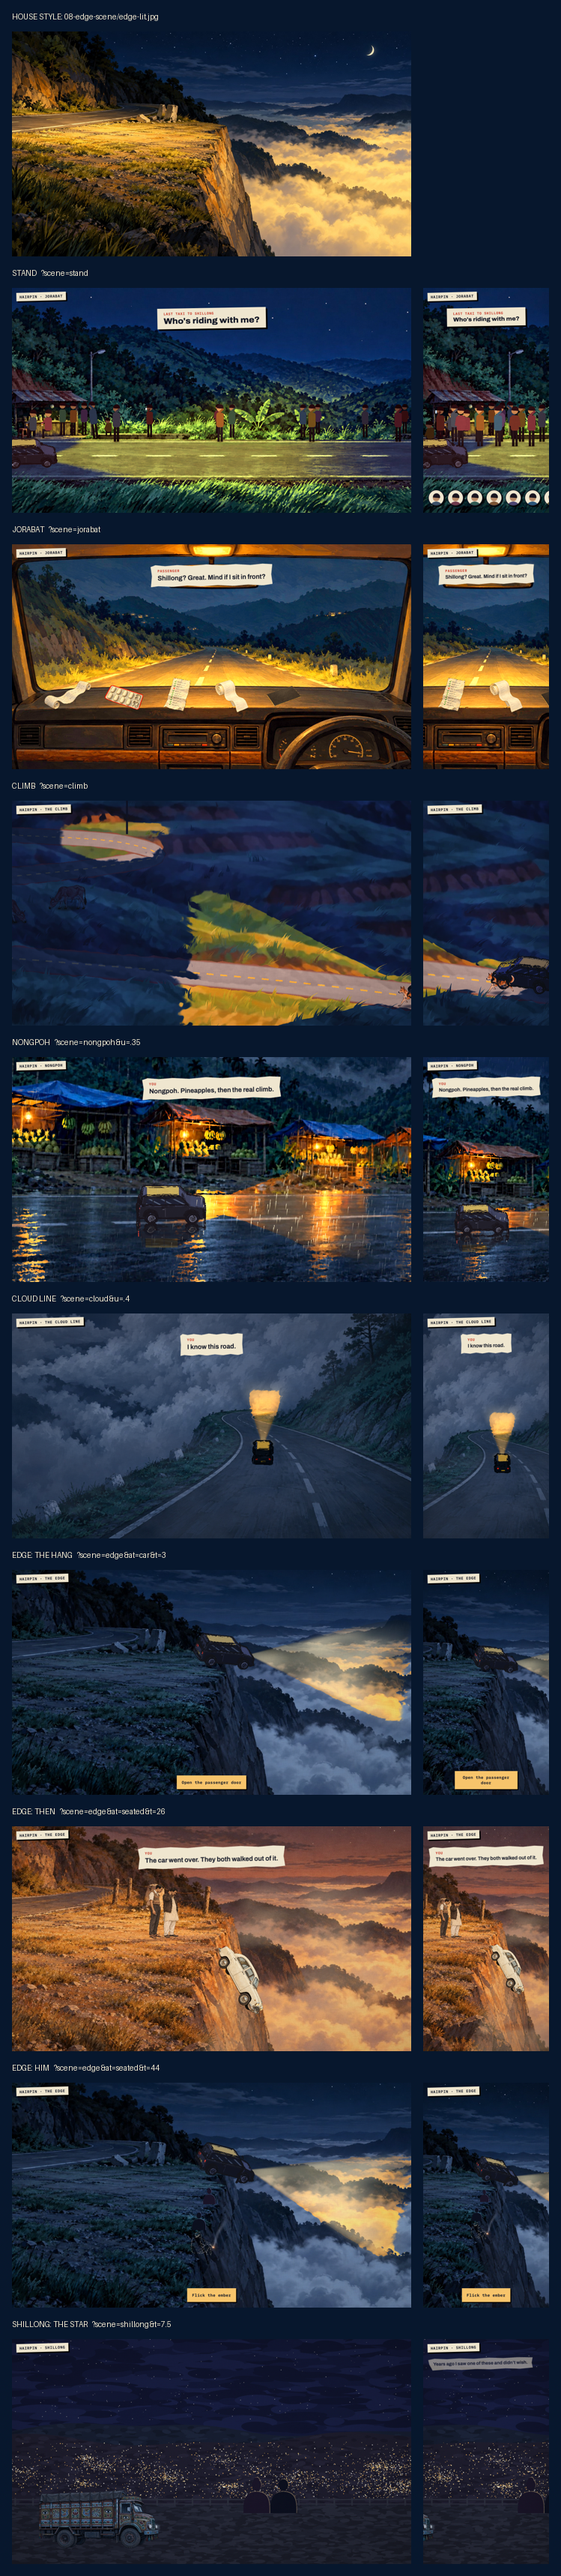
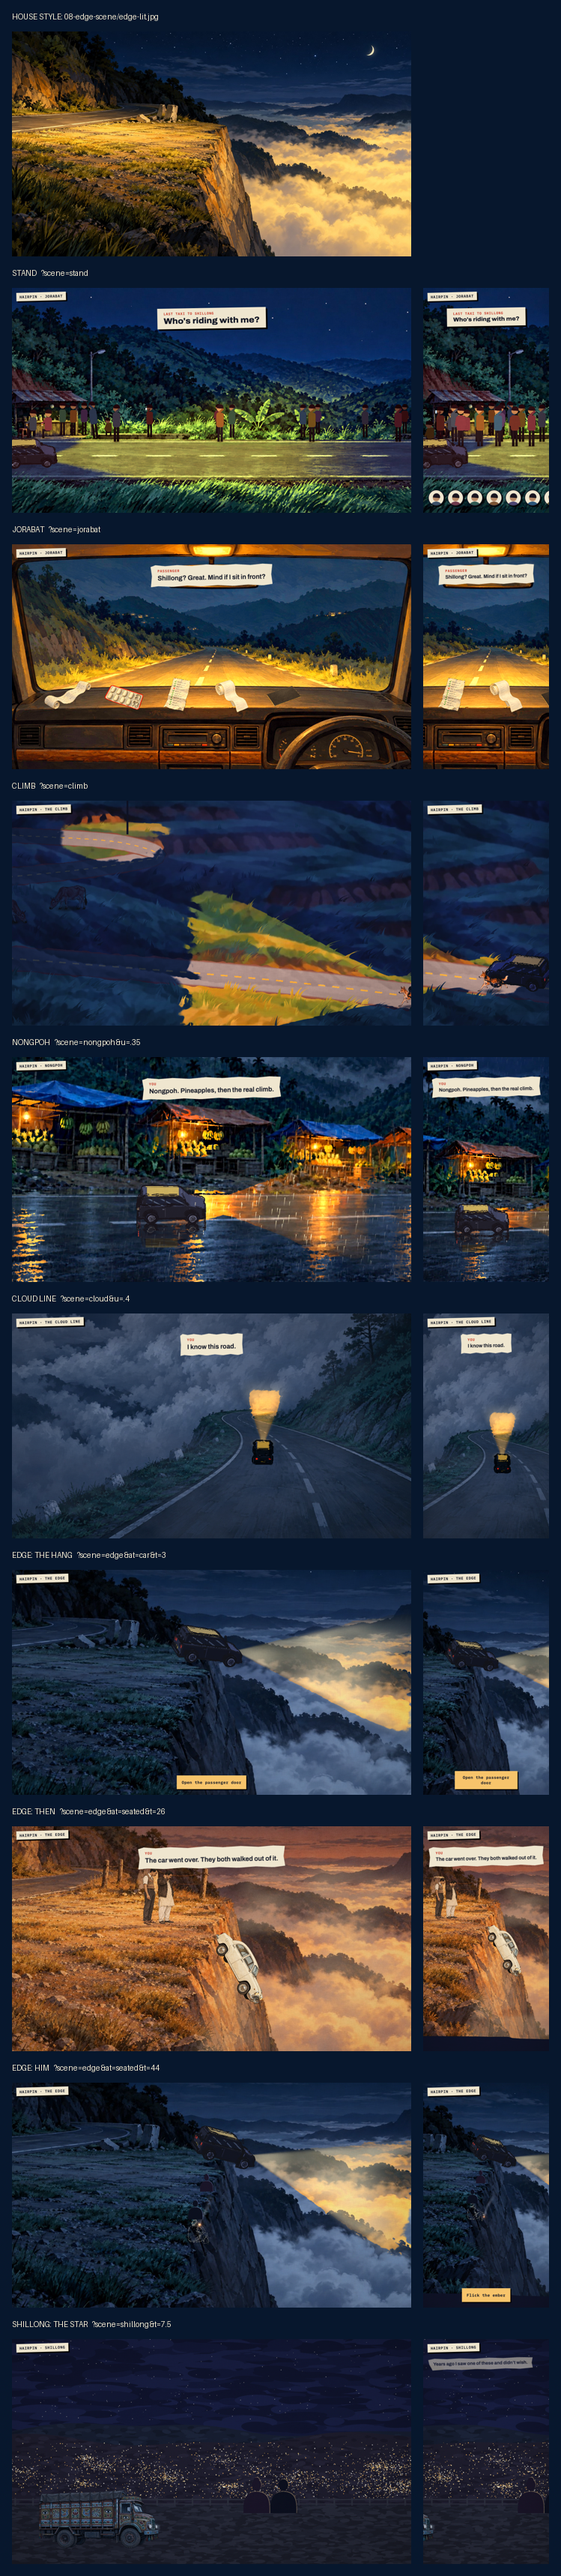
Depth, step 3: every painting gets a depth map; the edge is 2.5D
- tools/make_depth.py: Depth Anything V2 small (ONNX) -> <scene>/depth.png,
  smoothed; falls back to hand layers if the model can't be had
- shared/kit.js Stage: the painting as a 256x128 mesh pushed along its own
  sight lines by depth (pixel-identical at rest, parallax when the camera
  moves); place() grounds things by the depth at their feet
- The edge: perspective camera; leans in toward the drop as the taxi tips,
  pulls back to show the cloud below when the doors open, holds for the
  story, tilts down after the fall

diff --git a/08-edge-scene/scene.js b/08-edge-scene/scene.js
@@ -2,12 +2,12 @@
 // the doors, sitting on the lip, the story wiping to the same cliff decades ago, him in ink with the ember, the flick,
 // the taxi going over, and the truck that gives you a lift. Tap (or the chip) for each next step.
 import * as THREE from 'three';
-import { clamp, lerp, damp, sstep, mkCanvas, loadImg, tex, strokeMap, NOISE, makeTaxi, LIVERY, passenger, line, disposeScene } from '../shared/kit.js';
+import { clamp, lerp, damp, sstep, mkCanvas, loadImg, tex, strokeMap, NOISE, makeTaxi, LIVERY, passenger, line, disposeScene, Stage } from '../shared/kit.js';
 import { FIGURE } from '../shared/style.js';
 
 const at = f => new URL(f, import.meta.url).href;
 const SPRITES = ['ghost-1', 'ghost-2', 'then-car', 'then-pair', 'truck-lit', 'truck-dark'];
-export const assets = ['edge-lit.jpg', 'edge-dark.jpg', 'edge-then.jpg', ...SPRITES.map(n => `sprites/${n}.png`)];
+export const assets = ['edge-lit.jpg', 'edge-dark.jpg', 'edge-then.jpg', 'depth.png', ...SPRITES.map(n => `sprites/${n}.png`)];
 
 const IW = 1672, IH = 941;              // edge-lit/dark/then.jpg size in px; the whole scene lives in these units
 
@@ -25,8 +25,9 @@ const { input, layer, params: QS } = ctx;
 layer.innerHTML = '<div class="tag">HAIRPIN · THE EDGE</div><div class="cue" id="brake" hidden>BRAKE</div>';
 const $ = s => layer.querySelector(s);
 ctx.bed({ engine: 1, wind: .6 });
-const [imgs, spr] = await Promise.all([Promise.all(['edge-lit.jpg', 'edge-dark.jpg', 'edge-then.jpg'].map(f => loadImg(at(f)))), Promise.all(SPRITES.map(n => loadImg(at(`sprites/${n}.png`))))]);
-if (!imgs.every(Boolean) || !spr.every(Boolean)) throw new Error('edge paintings did not load');
+const [imgs, spr, depthImg] = await Promise.all([Promise.all(['edge-lit.jpg', 'edge-dark.jpg', 'edge-then.jpg'].map(f => loadImg(at(f)))), Promise.all(SPRITES.map(n => loadImg(at(`sprites/${n}.png`)))), loadImg(at('depth.png'))]);
+if (!imgs.every(Boolean) || !spr.every(Boolean) || !depthImg) throw new Error('edge paintings did not load');
+const stage = new Stage({ W: IW, H: IH, depth: depthImg, k: .26 });
 const SPR = Object.fromEntries(SPRITES.map((n, i) => [n, spr[i]]));
 const [tLit, tDark, tThen] = imgs.map(tex), tStroke = tex(strokeMap(imgs[0], IW, IH));
 
@@ -58,11 +59,9 @@ float reveal(vec2 p, float L){
 
 /* ---------- the painting, the cloud, the smoke ---------- */
 const scene = new THREE.Scene();
-const camera = new THREE.OrthographicCamera(0, IW, 0, -IH, -1000, 1000);
-camera.position.z = 500;
+const camera = stage.cam;
 const bgMat = new THREE.ShaderMaterial({
   uniforms: U,
-  vertexShader: 'varying vec2 vPx; void main(){ vec4 w = modelMatrix * vec4(position, 1.); vPx = vec2(w.x, -w.y); gl_Position = projectionMatrix * viewMatrix * w; }',
   fragmentShader: LIGHT + /* glsl */`
     uniform vec4 uEdge; uniform vec3 uEmb; uniform float uFog; uniform sampler2D tThen; uniform float uThen;
     varying vec2 vPx;
@@ -95,8 +94,7 @@ const bgMat = new THREE.ShaderMaterial({
       gl_FragColor = vec4(col, 1.);
     }`,
 });
-const bg = new THREE.Mesh(new THREE.PlaneGeometry(IW, IH), bgMat);
-bg.position.set(IW / 2, -IH / 2, -400);
+const bg = stage.mesh(bgMat);   // the painting, 2.5D
 scene.add(bg);
 
 const { jeep, hang, body, parts, put, jeepMat, PIVOT } = makeTaxi(U.uMode);
@@ -108,9 +106,8 @@ const doors = [-1, 1].map(side => {
 });
 for (const m of parts) m.layers.enable(1);   // the doors too, for the ink
 // on the side edge near the far corner, nose out over the drop and turned a little away from us
-const CAR = lip(.437), CAR_YAW = .25;
-jeep.position.set(CAR[0], -CAR[1], 150);
-jeep.scale.setScalar(50);
+const CAR = lip(.437), CAR_YAW = .25, CAR_SIZE = 50, CAR_D = stage.depthAt(CAR[0], CAR[1] + 6);
+stage.place(jeep, CAR[0], CAR[1], CAR_SIZE, CAR_D);
 jeep.quaternion.setFromAxisAngle(new THREE.Vector3(1, 0, 0), .42).multiply(new THREE.Quaternion().setFromAxisAngle(new THREE.Vector3(0, 1, 0), CAR_YAW));
 scene.add(jeep);
 
@@ -160,7 +157,8 @@ const ghostMat = new THREE.ShaderMaterial({
 const ghost = new THREE.Mesh(footGeo, ghostMat); ghost.frustumCulled = false; ghost.renderOrder = 4; scene.add(ghost);
 // sitting on the edge: his seat (a third of the way across the drawing) on the lip, knees and feet out over the drop
 const G = lip(.7), gh = figH(G[1]) * 1.1, gw = gh * SPR['ghost-1'].width / SPR['ghost-1'].height, GX = G[0] + (.5 - .33) * gw;
-ghost.position.set(GX, -G[1], 200 + G[1] * .1); ghost.scale.set(gw, gh, 1);
+const G_D = stage.depthAt(G[0] - 10, G[1] + 4);   // the lip under him
+stage.place(ghost, GX, G[1], [gw, gh], G_D);
 const tipAt = f => [GX + (GHOST[f].tip[0] - .5) * gw, G[1] - GHOST[f].tip[1] * gh];
 const handAt = tipAt(0);
 // the ember: an additive point that swells on each drag
@@ -169,17 +167,17 @@ const emberMat = new THREE.ShaderMaterial({
   vertexShader: QUAD,
   fragmentShader: 'uniform float uI; varying vec2 vUv; void main(){ float d = length(vUv - .5) * 2.; vec3 c = vec3(1., .5, .16) * (exp(-d * d * 18.) + exp(-d * d * 3.) * .25) + vec3(1., .9, .6) * exp(-d * d * 90.); gl_FragColor = vec4(c * uI, 1.); }',
 });
-const ember = new THREE.Mesh(new THREE.PlaneGeometry(1, 1), emberMat); ember.frustumCulled = false; ember.renderOrder = 5; ember.scale.setScalar(34); scene.add(ember);
+const ember = new THREE.Mesh(new THREE.PlaneGeometry(1, 1), emberMat); ember.frustumCulled = false; ember.renderOrder = 5; scene.add(ember);
 const emb = { pos: new THREE.Vector2(...handAt), vel: new THREE.Vector2() };
 
 /* ---------- then: their car went over and the two of them stood here looking down at it. Only in the old painting. ---------- */
 const fading = map => new THREE.MeshBasicMaterial({ map: tex(map), transparent: true, depthWrite: false, opacity: 0 });
 const thenCar = new THREE.Mesh(new THREE.PlaneGeometry(1, 1), fading(SPR['then-car']));
 const TC = lip(.56), tcw = 240;
-thenCar.position.set(TC[0] + 95, -(TC[1] + 70), 120); thenCar.scale.set(-tcw, tcw * SPR['then-car'].height / SPR['then-car'].width, 1);   // flipped to face the drop
+stage.place(thenCar, TC[0] + 95, TC[1] + 70, [-tcw, tcw * SPR['then-car'].height / SPR['then-car'].width], stage.depthAt(TC[0] - 20, TC[1]));   // flipped to face the drop
 thenCar.rotation.z = -1.05;   // nose down the cliff face
 const thenPair = new THREE.Mesh(footGeo, fading(SPR['then-pair']));
-const tph = 170; thenPair.position.set(.41 * IW, -.5 * IH, 190); thenPair.scale.set(tph * SPR['then-pair'].width / SPR['then-pair'].height, tph, 1);
+const tph = 170; stage.place(thenPair, .41 * IW, .5 * IH, [tph * SPR['then-pair'].width / SPR['then-pair'].height, tph]);
 for (const m of [thenCar, thenPair]) { m.frustumCulled = false; m.renderOrder = 2; scene.add(m); }
 
 /* ---------- the truck: comes round the bend after, and takes you on to Shillong ---------- */
@@ -191,7 +189,7 @@ const truckMat = new THREE.ShaderMaterial({
 const truck = new THREE.Mesh(footGeo, truckMat); truck.frustumCulled = false; truck.renderOrder = 3; truck.visible = false; scene.add(truck);
 const TRUCK = { h: 150, from: -.25 * IW, to: .3 * IW, y: .445 * IH };
 const truckW = TRUCK.h * SPR['truck-lit'].width / SPR['truck-lit'].height;
-truck.scale.set(truckW, TRUCK.h, 1);
+
 
 /* ---------- framing: locked, covering the screen ---------- */
 let viewW = IW, viewH = IH;
@@ -200,9 +198,10 @@ function resize(w, h) {
   const aspect = w / h, Z = aspect < 1 ? 1 : 1.35;
   if (aspect > IW / IH) { viewW = IW; viewH = IW / aspect; } else { viewH = IH; viewW = IH * aspect; }
   viewW /= Z; viewH /= Z;
+  // a little margin, so the camera moves never show past the painting's edge
+  viewW *= .9; viewH *= .9;
   const cx = clamp(CAM[0], viewW / 2, IW - viewW / 2), cy = clamp(CAM[1], viewH / 2, IH - viewH / 2);
-  camera.left = cx - viewW / 2; camera.right = cx + viewW / 2; camera.top = -(cy - viewH / 2); camera.bottom = -(cy + viewH / 2);
-  camera.updateProjectionMatrix();
+  stage.view(cx, cy, viewH, aspect);
 }
 
 /* ---------- the hang: set by how long you braked; ?hang=0.7 sets it by hand ---------- */
@@ -281,12 +280,12 @@ function go(next) {
   phase = next; since = 0;
   if (next === 'drive') { Object.assign(drv, { u: 0, v: 180, inWin: 0, heldWin: 0 }); ang = 0; angV = 0; ctx.bed({ engine: 1, wind: .6 }); }
   if (next === 'car') { hangSaid = false; ang = 0; angV = 1.3; creak(1.3); skid(false); ctx.bed({ wind: 1 }); }   // over the lip: the nose drops and seesaws
-  if (next === 'drive') { tips = 0; fallT = -1; ang = reset(); angV = 0; jeep.position.set(CAR[0], -CAR[1], 150); lineI = 0; say(null); doors.forEach(d => d.userData.open = 0); walkers.forEach(w => w.m.visible = false); emb.pos.set(...handAt); truck.visible = false; }
+  if (next === 'drive') { tips = 0; fallT = -1; ang = reset(); angV = 0; stage.place(jeep, CAR[0], CAR[1], CAR_SIZE, CAR_D); lineI = 0; say(null); doors.forEach(d => d.userData.open = 0); walkers.forEach(w => w.m.visible = false); emb.pos.set(...handAt); truck.visible = false; }
   if (next === 'pout' || next === 'yout') {
     const i = next === 'pout' ? 0 : 1, d = doors[i];
     tips++; d.userData.open = 1; creak(1);
-    const p = body.localToWorld(v1.set(.3, .1, d.userData.side * 1.05));
-    Object.assign(walkers[i], { from: [p.x, -p.y], t0: U.uTime.value, k: 0 }); walkers[i].m.visible = true;
+    const p = stage.toPaint(body.localToWorld(v1.set(.3, .1, d.userData.side * 1.05)));
+    Object.assign(walkers[i], { from: p, t0: U.uTime.value, k: 0 }); walkers[i].m.visible = true;
   }
   if (next === 'flick') emb.vel.set(120, -80);
   if (next === 'truck') { if (fallT < 0) fallT = 5; truck.visible = true; horn(.03, 1.1); }   // far off, round the bend
@@ -310,7 +309,7 @@ function jump(at, secs) {
 if (QS.get('at')) jump(QS.get('at'), +QS.get('t') || 0);
 if (!QS.get('at')) go('drive');
 window.__edge = { phase: () => phase, go, ang: () => ang };
-const ptrPx = () => input.ptr && [camera.left + input.ptr[0] / innerWidth * viewW, -camera.top + input.ptr[1] / innerHeight * viewH];
+const ptrPx = () => input.ptr && stage.screenToPaint(...input.ptr);
 function frame(dt0) {
   const dt = dt0 * SPEED, t = (U.uTime.value += dt);
   const braking = input.hold;   // HOLD: brake (only counts on the drive)
@@ -327,7 +326,7 @@ function frame(dt0) {
     drv.u = Math.min(1, drv.u + drv.v * dt / DRIVE_LEN);
     const p = DRIVE.getPointAt(drv.u), q = DRIVE.getTangentAt(drv.u);
     const yaw = lerp(Math.atan2(-q.y * 2.4, q.x), CAR_YAW, sstep(.85, 1, drv.u));
-    jeep.position.set(p.x, -p.y, 150);
+    stage.place(jeep, p.x, p.y, CAR_SIZE, stage.depthAt(p.x, p.y + 6));
     jeep.quaternion.setFromAxisAngle(new THREE.Vector3(1, 0, 0), .42).multiply(new THREE.Quaternion().setFromAxisAngle(new THREE.Vector3(0, 1, 0), yaw));
     body.position.y = -PIVOT.y + Math.sin(t * 13) * .012 * drv.v / 120 + Math.pow(Math.max(0, Math.sin(t * 11.9)), 10) * .03;   // road shake + bass thump
     ang = braking && win ? .035 : 0;   // the nose dips under braking
@@ -344,7 +343,7 @@ function frame(dt0) {
     // past the balance point: the nose goes, then the whole car slides off the lip into the cloud
     fallT += dt; angV += (2 + Math.sin(ang) * 6) * dt; ang = Math.min(ang + angV * dt, 1.45);
     const f = Math.max(0, fallT - .8);
-    jeep.position.set(CAR[0] + 260 * f, -CAR[1] - 450 * f * f, 150);   // out, clear of the lip, and down
+    stage.place(jeep, CAR[0] + 260 * f, CAR[1] + 450 * f * f, CAR_SIZE, CAR_D);   // out, clear of the lip, and down
   } else if (phase !== 'drive') {
     const target = reset() + tips * lerp(.04, .1, H) + Math.sin(t * .8) * .012 + Math.sin(t * 1.9 + 1) * .005;
     angV += ((target - ang) * 26 - angV * 2.2) * dt; ang += angV * dt;
@@ -354,11 +353,11 @@ function frame(dt0) {
   if (ctx.ac && t > nextCreak) { creak(.35 + Math.random() * .35); nextCreak = t + 6 + Math.random() * 6; }
   jeep.updateMatrixWorld(true);
   // headlights: from the nose, wherever the nose now points
-  const a = body.localToWorld(v1.set(1.72, .62, 0)), b = body.localToWorld(v2.set(2.72, .62, 0));
-  U.uHead.value.set(a.x, -a.y); U.uDir.value.set(b.x - a.x, a.y - b.y).normalize();
+  const a = stage.toPaint(body.localToWorld(v1.set(1.72, .62, 0))), b = stage.toPaint(body.localToWorld(v2.set(2.72, .62, 0)));
+  U.uHead.value.set(...a); U.uDir.value.set(b[0] - a[0], b[1] - a[1]).normalize();
   if (truck.visible) {   // the truck rolls in round the bend and stops; now its headlights are the light
     const k = phase === 'truck' ? 1 - Math.pow(1 - clamp(since / 5, 0, 1), 2.2) : 1, x = lerp(TRUCK.from, TRUCK.to, k);
-    truck.position.set(x, -TRUCK.y + (k < 1 ? Math.sin(t * 9) * .8 : 0), 140);
+    stage.place(truck, x, TRUCK.y - (k < 1 ? Math.sin(t * 9) * .8 : 0), [truckW, TRUCK.h], stage.depthAt(clamp(x, 0, IW), TRUCK.y));
     U.uHead.value.set(x + truckW * .48, TRUCK.y - TRUCK.h * .2); U.uDir.value.set(1, .04).normalize();
   }
   // then: the old car and the two of them, only while the story's in the old painting
@@ -372,8 +371,7 @@ function frame(dt0) {
     if (!w.m.visible) continue;
     w.k = clamp((t - w.t0) / 2.4, 0, 1);
     const e = w.k * w.k * (3 - 2 * w.k), x = lerp(w.from[0], w.to[0], e), y = lerp(w.from[1], w.to[1], e), h = figH(y);
-    w.m.position.set(x, -y + Math.abs(Math.sin(w.k * Math.PI * 5)) * 4 * (1 - w.k), 200 + y * .1);
-    w.m.scale.set(h * 200 / 240, h, 1);
+    stage.place(w.m, x, y - Math.abs(Math.sin(w.k * Math.PI * 5)) * 4 * (1 - w.k), [h * 200 / 240, h], stage.depthAt(x - 8, y + 4));
   }
   if (phase === 'car' && since > 2.2 && !hangSaid) { hangSaid = true; const l = line('hang'); if (l) say(l.who, l.text, 3.4, l.expr); }
   if (phase === 'yout' && walkers[1].k >= 1) go('seated');
@@ -397,10 +395,19 @@ function frame(dt0) {
   }
   ember.visible = glow > 0;
   emberMat.uniforms.uI.value = glow;
-  ember.position.set(emb.pos.x, -emb.pos.y, 300);
+  stage.place(ember, emb.pos.x, emb.pos.y, 34, G_D);
   U.uEmb.value.set(emb.pos.x, emb.pos.y, (seated ? sstep(T.ember, T.ember + 2, since) : 0) + (flick ? 1 - sstep(0, 2, since) : 0));
   $('#brake').hidden = !(phase === 'drive' && drv.u > BRAKE_FROM);
   ctx.prompt(ready() && LABEL[phase] || null);
+  // the camera (see STYLE.md: eased, slow): the tip leans in toward the drop; the doors pull back to show the cloud below;
+  // the story holds still; the fall looks down after it
+  const T_ = stage.target, vh = stage.rest.z * Math.tan(stage.fov * Math.PI / 360) * 2;
+  const tip = phase === 'car' ? sstep(0, 2.5, since) : 0, out = phase === 'pout' || phase === 'yout' || phase === 'seated' || phase === 'flick';
+  Object.assign(T_, { dx: 0, dy: 0, dolly: 0, yaw: 0, pitch: 0 });
+  if (tip) Object.assign(T_, { dx: .035 * vh * tip, dolly: .07 * tip, yaw: -.035 * tip });
+  if (out) Object.assign(T_, { dx: .02 * vh, dy: .05 * vh, dolly: -.05, pitch: -.025 });
+  if (phase === 'flick' && fallT > 0) Object.assign(T_, { dx: .05 * vh, dy: .08 * vh, dolly: -.02, pitch: -.045 });
+  stage.update(dt, phase === 'seated' ? .5 : .9);
   // render: colour, then the ink and paper rim around the taxi
   ctx.ink.uniforms.uTime.value = t; ctx.ink.uniforms.uJeepScale.value = .7;
   ctx.ink.render(scene, camera, jeep);

diff --git a/shared/kit.js b/shared/kit.js
@@ -224,3 +224,88 @@ export function disposeScene(scene) {
     for (const m of [].concat(o.material || [])) { for (const v of Object.values(m.uniforms || {})) v.value?.isTexture && v.value.dispose(); m.map?.dispose(); m.dispose(); }
   });
 }
+
+/* ---------- the stage: every painting becomes 2.5D ---------- */
+// The painting is a subdivided plane whose vertices are pushed toward the camera along their own sight line, by their depth
+// (<scene>/depth.png, near = white). Seen from the rest pose the picture is pixel-identical to the flat painting, so the
+// reveal, the stroke map and every placement stay registered; move the camera and the depth shows as real parallax.
+// People, the taxi and the truck are placed through the same transform, by the depth at their feet, so they stay planted.
+const REDUCED = matchMedia('(prefers-reduced-motion: reduce)').matches;
+const _v = new THREE.Vector3(), _r = new THREE.Raycaster(), _pl = new THREE.Plane(new THREE.Vector3(0, 0, 1), 0), _n2 = new THREE.Vector2();
+export class Stage {
+  // k: how far toward the camera the nearest thing comes (a fraction of the distance). Keep it modest: big steps stretch.
+  constructor({ W, H, depth, k = .28, fov = 24 }) {
+    Object.assign(this, { W, H, k, fov });
+    this.cam = new THREE.PerspectiveCamera(fov, 1, 1, 1e5);
+    this.rest = new THREE.Vector3(W / 2, -H / 2, 1000);
+    this.move = { dx: 0, dy: 0, dolly: 0, yaw: 0, pitch: 0 };   // current camera offset from rest (eased toward target)
+    this.target = { ...this.move };
+    // the depth, on the GPU for the mesh and on the CPU for placing things (a quarter-size copy is plenty)
+    this.tDepth = tex(depth);
+    const w = Math.max(1, W >> 2), h = Math.max(1, H >> 2), c = mkCanvas(w, h), x = c.getContext('2d');
+    x.drawImage(depth, 0, 0, w, h);
+    const px = x.getImageData(0, 0, w, h).data;
+    this.dW = w; this.dH = h; this.dep = new Float32Array(w * h);
+    for (let i = 0; i < w * h; i++) this.dep[i] = px[i * 4] / 255;
+    this.uniforms = { tDepth: { value: this.tDepth }, uRest: { value: this.rest }, uK: { value: k } };
+  }
+  // the vertex shader for a painting mesh: vPx is the painting pixel, whatever the depth does to the position
+  static VERT = /* glsl */`
+    uniform sampler2D tDepth; uniform vec3 uRest; uniform float uK; uniform vec2 uImg; varying vec2 vPx;
+    void main(){
+      vPx = vec2(uv.x, 1. - uv.y) * uImg;
+      float d = texture2D(tDepth, uv).r;
+      vec3 P = uRest + (vec3(vPx.x, -vPx.y, 0.) - uRest) * (1. - uK * d);
+      gl_Position = projectionMatrix * viewMatrix * vec4(P, 1.);
+    }`;
+  // the painting mesh: drawn first, behind everything (its depth would only clip feet)
+  mesh(material, segs = [256, 128]) {
+    Object.assign(material.uniforms, this.uniforms);
+    material.vertexShader = Stage.VERT; material.depthTest = false; material.depthWrite = false;
+    const m = new THREE.Mesh(new THREE.PlaneGeometry(1, 1, ...segs), material);
+    m.frustumCulled = false; m.renderOrder = -10; return m;
+  }
+  depthAt(x, y) {   // bilinear, in painting px
+    const fx = clamp(x / this.W * this.dW - .5, 0, this.dW - 1.001), fy = clamp(y / this.H * this.dH - .5, 0, this.dH - 1.001);
+    const i = fx | 0, j = fy | 0, u = fx - i, v = fy - j, w = this.dW, d = this.dep;
+    return lerp(lerp(d[j * w + i], d[j * w + i + 1], u), lerp(d[(j + 1) * w + i], d[(j + 1) * w + i + 1], u), v);
+  }
+  shrink(d) { return 1 - this.k * d; }
+  // a painting point (px) at depth d, in the world
+  toWorld(x, y, d = this.depthAt(x, y), out = _v) {
+    const s = this.shrink(d), R = this.rest;
+    return out.set(R.x + (x - R.x) * s, R.y + (-y - R.y) * s, R.z * (1 - s));
+  }
+  // put an object at a painting point, by the depth there (or d), its size (scalar or [w, h]) scaled to match
+  place(obj, x, y, size, d = this.depthAt(x, y)) {
+    const s = this.shrink(d);
+    obj.position.copy(this.toWorld(x, y, d));
+    if (Array.isArray(size)) obj.scale.set(size[0] * s, size[1] * s, 1); else if (size != null) obj.scale.setScalar(size * s);
+    return s;
+  }
+  // a world point back to the painting pixel it sits over, seen from the rest pose
+  toPaint(P) { const R = this.rest, f = R.z / (R.z - P.z); return [R.x + (P.x - R.x) * f, -(R.y + (P.y - R.y) * f)]; }
+  // the screen (css px) to the painting, through the moving camera onto the far plane
+  screenToPaint(sx, sy) {
+    _n2.set(sx / innerWidth * 2 - 1, -(sy / innerHeight) * 2 + 1); _r.setFromCamera(_n2, this.cam);
+    return _r.ray.intersectPlane(_pl, _v) ? [_v.x, -_v.y] : null;
+  }
+  // the rest framing: centred on painting px (cx, cy), showing viewH of it on screen
+  view(cx, cy, viewH, aspect) {
+    const D = viewH / 2 / Math.tan(this.fov * Math.PI / 360);
+    this.rest.set(cx, -cy, D); this.cam.aspect = aspect; this.cam.near = D * .05; this.cam.far = D * 4;
+    this.cam.updateProjectionMatrix(); this.apply();
+  }
+  // ease the camera toward its target move: dx, dy in painting px, dolly a fraction of the distance, yaw/pitch radians
+  update(dt, rate = .9) {
+    const k = damp(rate, dt), m = REDUCED ? .35 : 1;
+    for (const key in this.move) this.move[key] = lerp(this.move[key], this.target[key] * m, k);
+    this.apply();
+  }
+  apply() {
+    const R = this.rest, m = this.move;
+    this.cam.position.set(R.x + m.dx, R.y - m.dy, R.z * (1 - m.dolly));
+    this.cam.rotation.set(m.pitch, m.yaw, 0);
+    this.cam.updateMatrixWorld();
+  }
+}

diff --git a/tools/make_depth.py b/tools/make_depth.py
@@ -1,0 +1,76 @@
+"""Make each painting's depth map, shared by its lit and dark versions: <scene>/depth.png (near = white).
+
+    python3 tools/make_depth.py                 # every scene
+    python3 tools/make_depth.py 08-edge-scene   # one
+
+Uses Depth Anything V2 small (ONNX, about 100 MB, downloaded once to tools/.models/) on the lit painting, through
+onnxruntime. If the model can't be had, it falls back to hand-made layers: sky, far, mid and near bands blended with a
+depth gradient down the frame, which is what the old flat scenes assumed.
+
+The result is smoothed (edge-aware, so a ridge doesn't bleed into the sky) and normalised: 0 = the farthest thing in the
+frame, 1 = the nearest. The scenes displace a subdivided plane by it, so keep it smooth; sharp steps stretch.
+"""
+import os, sys, urllib.request
+import numpy as np
+from PIL import Image
+from scipy.ndimage import gaussian_filter, median_filter
+
+ROOT = os.path.dirname(os.path.dirname(os.path.abspath(__file__)))
+MODEL_URL = 'https://huggingface.co/onnx-community/depth-anything-v2-small/resolve/main/onnx/model.onnx'
+MODEL = os.path.join(ROOT, 'tools', '.models', 'depth-anything-v2-small.onnx')
+# scene -> the painting the depth comes from (the lit one: it has the clearest shapes)
+SCENES = {
+    '08-edge-scene': 'edge-lit.jpg',
+    '13-the-stand': 'jorabat-dark.jpg',
+    '01-cloud-line-scene': 'lit.jpg',
+    '11-nongpoh': 'nongpoh-lit.jpg',
+    '12-cloud-line': 'cloudline-lit.jpg',
+    '10-jorabat-intro': 'dashboard-lit.jpg',
+}
+SIZE = 518   # the model's input size (a multiple of 14)
+
+
+def model_depth(img):
+    import onnxruntime as ort
+    if not os.path.exists(MODEL):
+        os.makedirs(os.path.dirname(MODEL), exist_ok=True)
+        print('downloading', MODEL_URL)
+        urllib.request.urlretrieve(MODEL_URL, MODEL)
+    sess = ort.InferenceSession(MODEL, providers=['CPUExecutionProvider'])
+    W, H = img.size
+    w = SIZE * 2 if W > H * 1.5 else SIZE   # wide paintings keep more width
+    w = (round(w * 1) // 14) * 14; h = (round(w * H / W) // 14) * 14
+    x = np.asarray(img.convert('RGB').resize((w, h), Image.BICUBIC), np.float32) / 255
+    x = (x - [.485, .456, .406]) / [.229, .224, .225]
+    x = x.transpose(2, 0, 1)[None].astype(np.float32)
+    out = sess.run(None, {sess.get_inputs()[0].name: x})[0][0]   # relative inverse depth: bigger = nearer
+    return np.asarray(Image.fromarray(out.astype(np.float32)).resize((W, H), Image.BICUBIC))
+
+
+def layered_depth(img):
+    """Fallback: sky far, then a gradient down the frame (the old flat scenes' depthN), lifted where it's busy."""
+    a = np.asarray(img.convert('L'), np.float32) / 255
+    H, W = a.shape
+    y = np.linspace(0, 1, H)[:, None].repeat(W, 1)
+    sky = gaussian_filter((a > .8).astype(np.float32) * (y < .5), 8)
+    return np.clip((y - .3) / .7, 0, 1) * (1 - sky)
+
+
+def smooth(d, img):
+    d = (d - np.percentile(d, 1)) / (np.percentile(d, 99) - np.percentile(d, 1) + 1e-6)
+    d = median_filter(np.clip(d, 0, 1), 5)
+    return gaussian_filter(d, 3)   # soft: a displaced mesh stretches at sharp steps
+
+
+if __name__ == '__main__':
+    names = sys.argv[1:] or list(SCENES)
+    for scene in names:
+        src = os.path.join(ROOT, scene, SCENES[scene])
+        img = Image.open(src)
+        try:
+            d = model_depth(img); how = 'Depth Anything V2 small'
+        except Exception as e:
+            print('  model unavailable (%s): using layers' % e); d = layered_depth(img); how = 'layers'
+        d = smooth(d, img)
+        Image.fromarray((d * 255).astype(np.uint8)).save(os.path.join(ROOT, scene, 'depth.png'), optimize=True)
+        print(f'{scene}/depth.png  from {SCENES[scene]}  ({how})')
